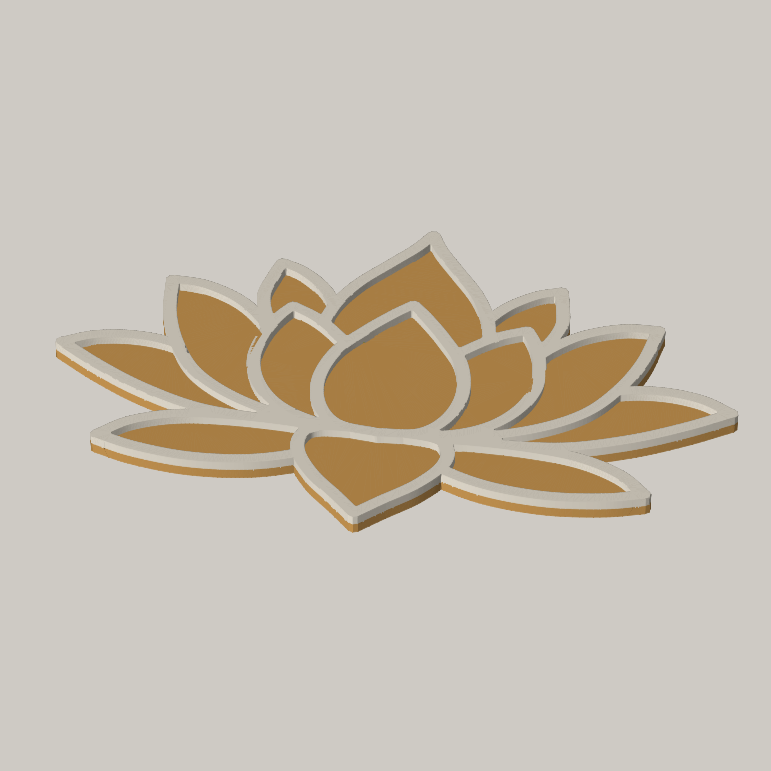
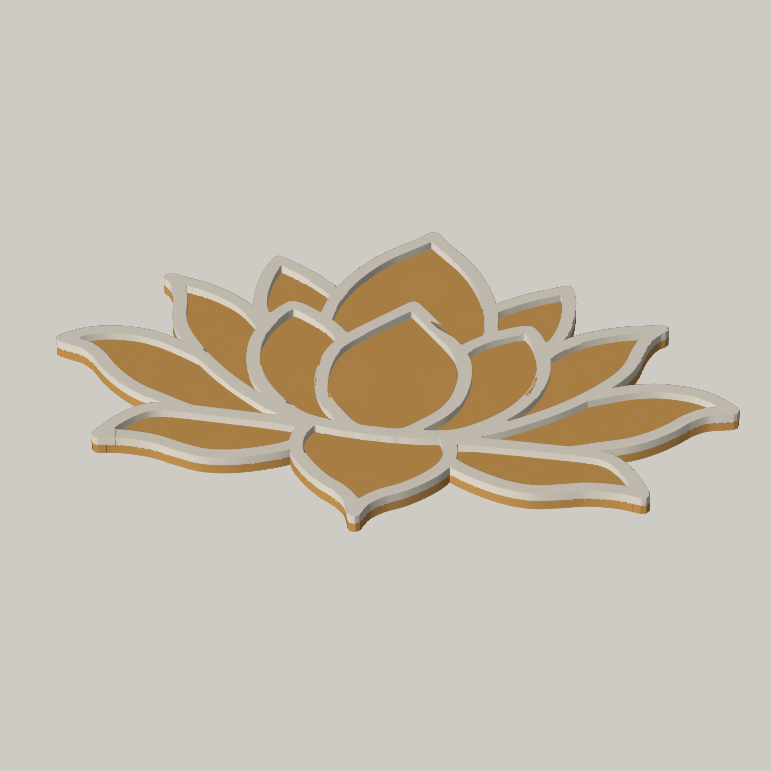
Lotus rangoli board: curved S-shaped petals matching reference (preview only)
Re-read petal curves from the reference so petals flare and flick into
their tips instead of plain leaf shapes; tuck the bottom petal's top
behind the inner petals. STL pending approval.

Claude-Session: https://claude.ai/code/session_01HQyouszACcJfNx7ugTWrWT

Changed region(s): [[0.0623, 0.3113, 0.965, 0.6848]]

diff --git a/tools/lotus_rangoli_vector.py b/tools/lotus_rangoli_vector.py
@@ -30,28 +30,42 @@ RIDGE_W = 2.8          # border width
 # tip back to base. Sides are smoothed separately so tips stay pointed.
 CX = 768
 LEFT_PETALS = {
-    # name: (side_a base->tip, side_b tip->base)
-    "outer_low": ([(690, 700), (560, 700), (420, 688), (300, 645), (200, 590), (115, 532)],
-                  [(115, 532), (175, 500), (250, 488), (330, 500), (430, 545), (560, 620), (690, 700)]),
-    "rear_side": ([(640, 560), (560, 470), (500, 400), (472, 320), (478, 252), (487, 205)],
-                  [(487, 205), (535, 228), (585, 275), (622, 340), (650, 430), (660, 520), (640, 560)]),
-    "outer_up": ([(700, 702), (600, 690), (480, 645), (390, 580), (335, 495), (300, 400), (283, 297)],
-                 [(283, 297), (350, 303), (420, 335), (475, 385), (520, 450), (580, 560), (650, 650), (700, 702)]),
-    "inner": ([(735, 702), (640, 690), (565, 652), (515, 590), (492, 515), (498, 435), (515, 380), (535, 342)],
-              [(535, 342), (585, 370), (630, 410), (680, 470), (720, 560), (740, 650), (735, 702)]),
-    "low_side": ([(690, 712), (600, 702), (480, 702), (380, 715), (300, 750), (248, 800)],
-                 [(248, 800), (320, 822), (420, 835), (520, 828), (600, 805), (660, 770), (690, 712)]),
+    # name: (side_a base->tip, side_b tip->base); points read off the reference.
+    "outer_low": ([(700, 725), (560, 725), (470, 718), (400, 700), (340, 676), (290, 655),
+                   (250, 628), (215, 595), (190, 565), (160, 541), (128, 531), (107, 525)],
+                  [(107, 525), (122, 513), (150, 495), (190, 482), (240, 479), (280, 485),
+                   (330, 503), (420, 550), (520, 615), (620, 675), (700, 725)]),
+    "rear_side": ([(650, 560), (560, 470), (500, 410), (474, 370), (463, 325), (461, 280),
+                   (465, 235), (475, 196)],
+                  [(475, 196), (500, 210), (535, 230), (572, 256), (612, 292), (650, 360),
+                   (670, 450), (650, 560)]),
+    "outer_up": ([(710, 712), (650, 697), (590, 681), (540, 656), (490, 621), (440, 581),
+                  (390, 531), (350, 481), (326, 440), (315, 405), (309, 368), (298, 328),
+                  (284, 302), (272, 292)],
+                 [(272, 292), (300, 299), (342, 310), (390, 330), (432, 356), (466, 390),
+                  (494, 428), (530, 490), (590, 580), (660, 660), (710, 712)]),
+    "inner": ([(735, 704), (680, 700), (620, 686), (575, 656), (540, 621), (511, 580),
+               (491, 531), (483, 481), (486, 440), (496, 400), (513, 363), (530, 340)],
+              [(530, 340), (552, 347), (590, 370), (622, 396), (650, 430), (690, 500),
+               (725, 600), (740, 680), (735, 704)]),
+    "low_side": ([(690, 710), (560, 703), (450, 701), (365, 701), (325, 708), (296, 729),
+                  (271, 759), (255, 787), (245, 805)],
+                 [(245, 805), (290, 798), (350, 801), (400, 815), (450, 826), (500, 822),
+                  (550, 806), (600, 782), (640, 750), (690, 710)]),
 }
 # Centre petals (symmetric about x = CX): left half only, base (on axis) -> tip (on axis).
 CENTER_PETALS = {
-    "rear_top": [(CX, 660), (680, 620), (626, 520), (606, 420), (614, 330), (648, 248), (700, 172), (742, 112), (CX, 62)],
-    "bottom": [(CX, 945), (725, 900), (670, 845), (632, 785), (628, 735), (660, 705), (CX, 698)],
-    "center": [(CX, 705), (690, 692), (645, 640), (628, 560), (645, 470), (690, 395), (735, 335), (CX, 298)],
+    "rear_top": [(CX, 660), (660, 600), (620, 500), (604, 420), (604, 360), (612, 300),
+                 (630, 245), (655, 195), (686, 150), (720, 114), (748, 86), (CX, 62)],
+    "bottom": [(CX, 640), (700, 648), (655, 668), (636, 698), (622, 735), (622, 768), (635, 800),
+               (660, 832), (692, 862), (728, 886), (752, 910), (762, 930), (CX, 950)],
+    "center": [(CX, 705), (720, 700), (676, 657), (650, 621), (635, 581), (630, 531),
+               (635, 481), (650, 441), (676, 405), (706, 370), (740, 331), (CX, 300)],
 }
 # Back-to-front drawing order.
 ORDER = [("outer_low", "L"), ("outer_low", "R"), ("rear_side", "L"), ("rear_side", "R"),
          ("rear_top", "C"), ("outer_up", "L"), ("outer_up", "R"), ("low_side", "L"),
-         ("low_side", "R"), ("inner", "L"), ("inner", "R"), ("bottom", "C"), ("center", "C")]
+         ("low_side", "R"), ("bottom", "C"), ("inner", "L"), ("inner", "R"), ("center", "C")]
 
 
 def catmull_rom(pts, n=24):
